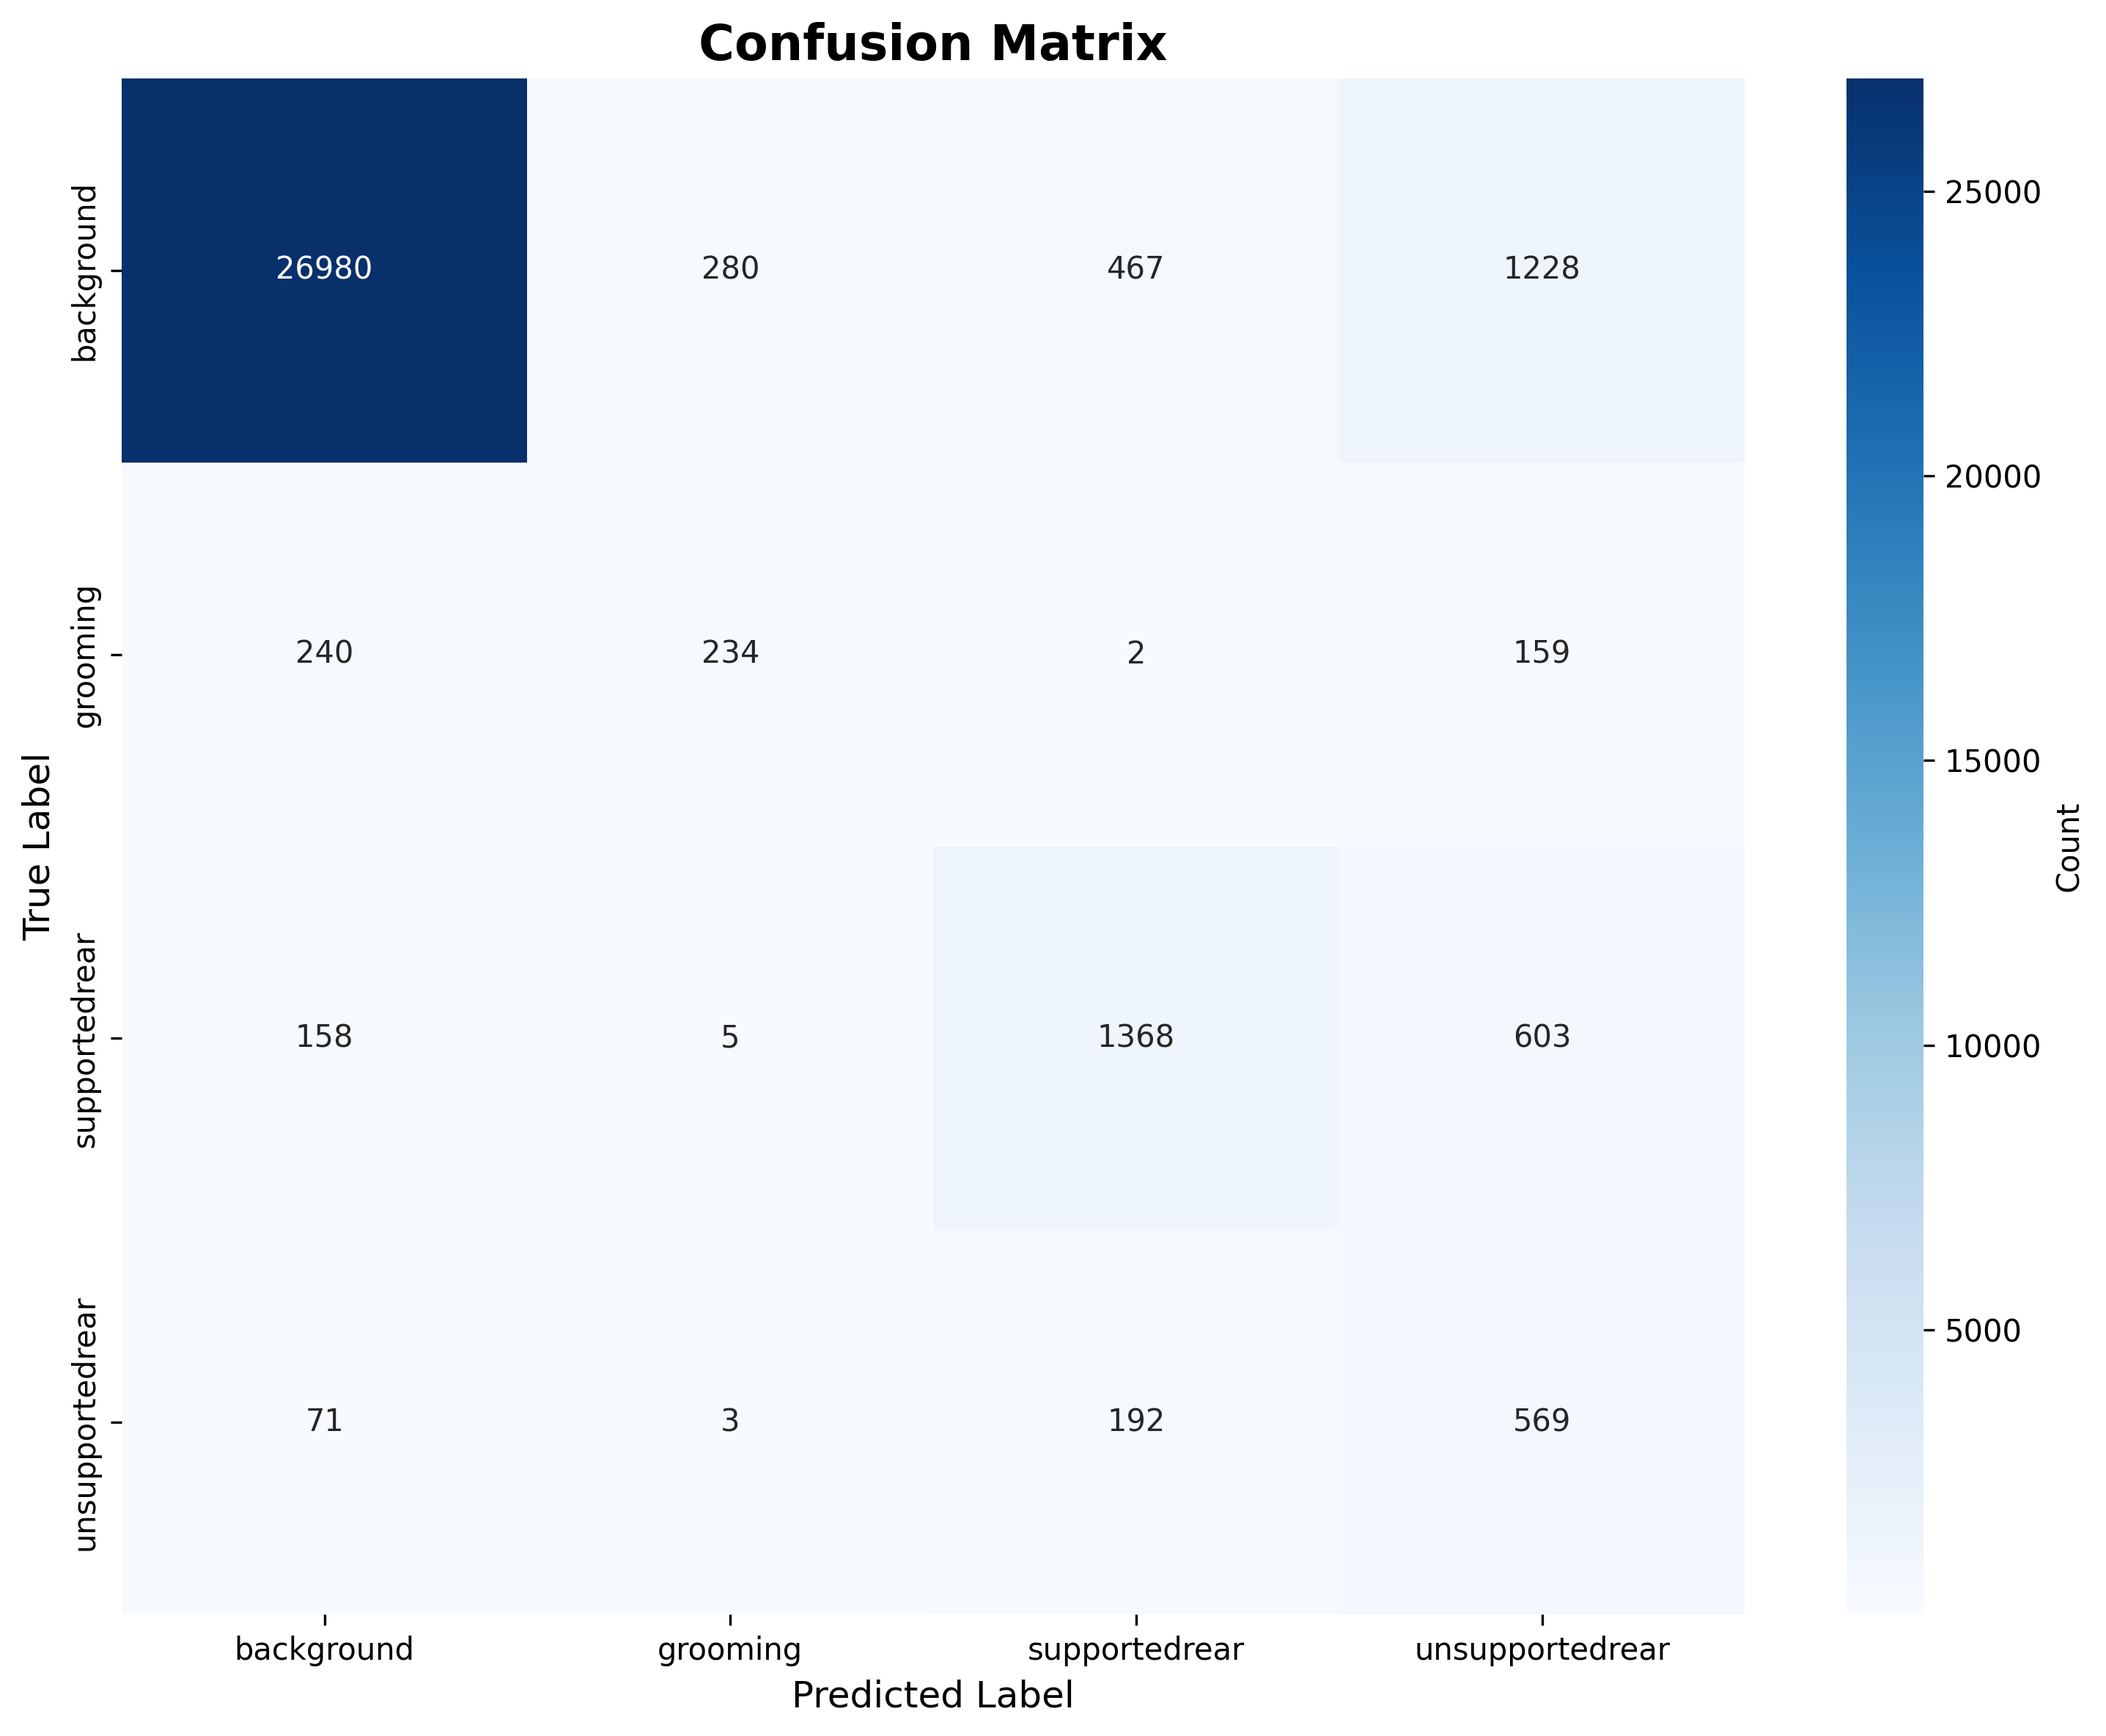
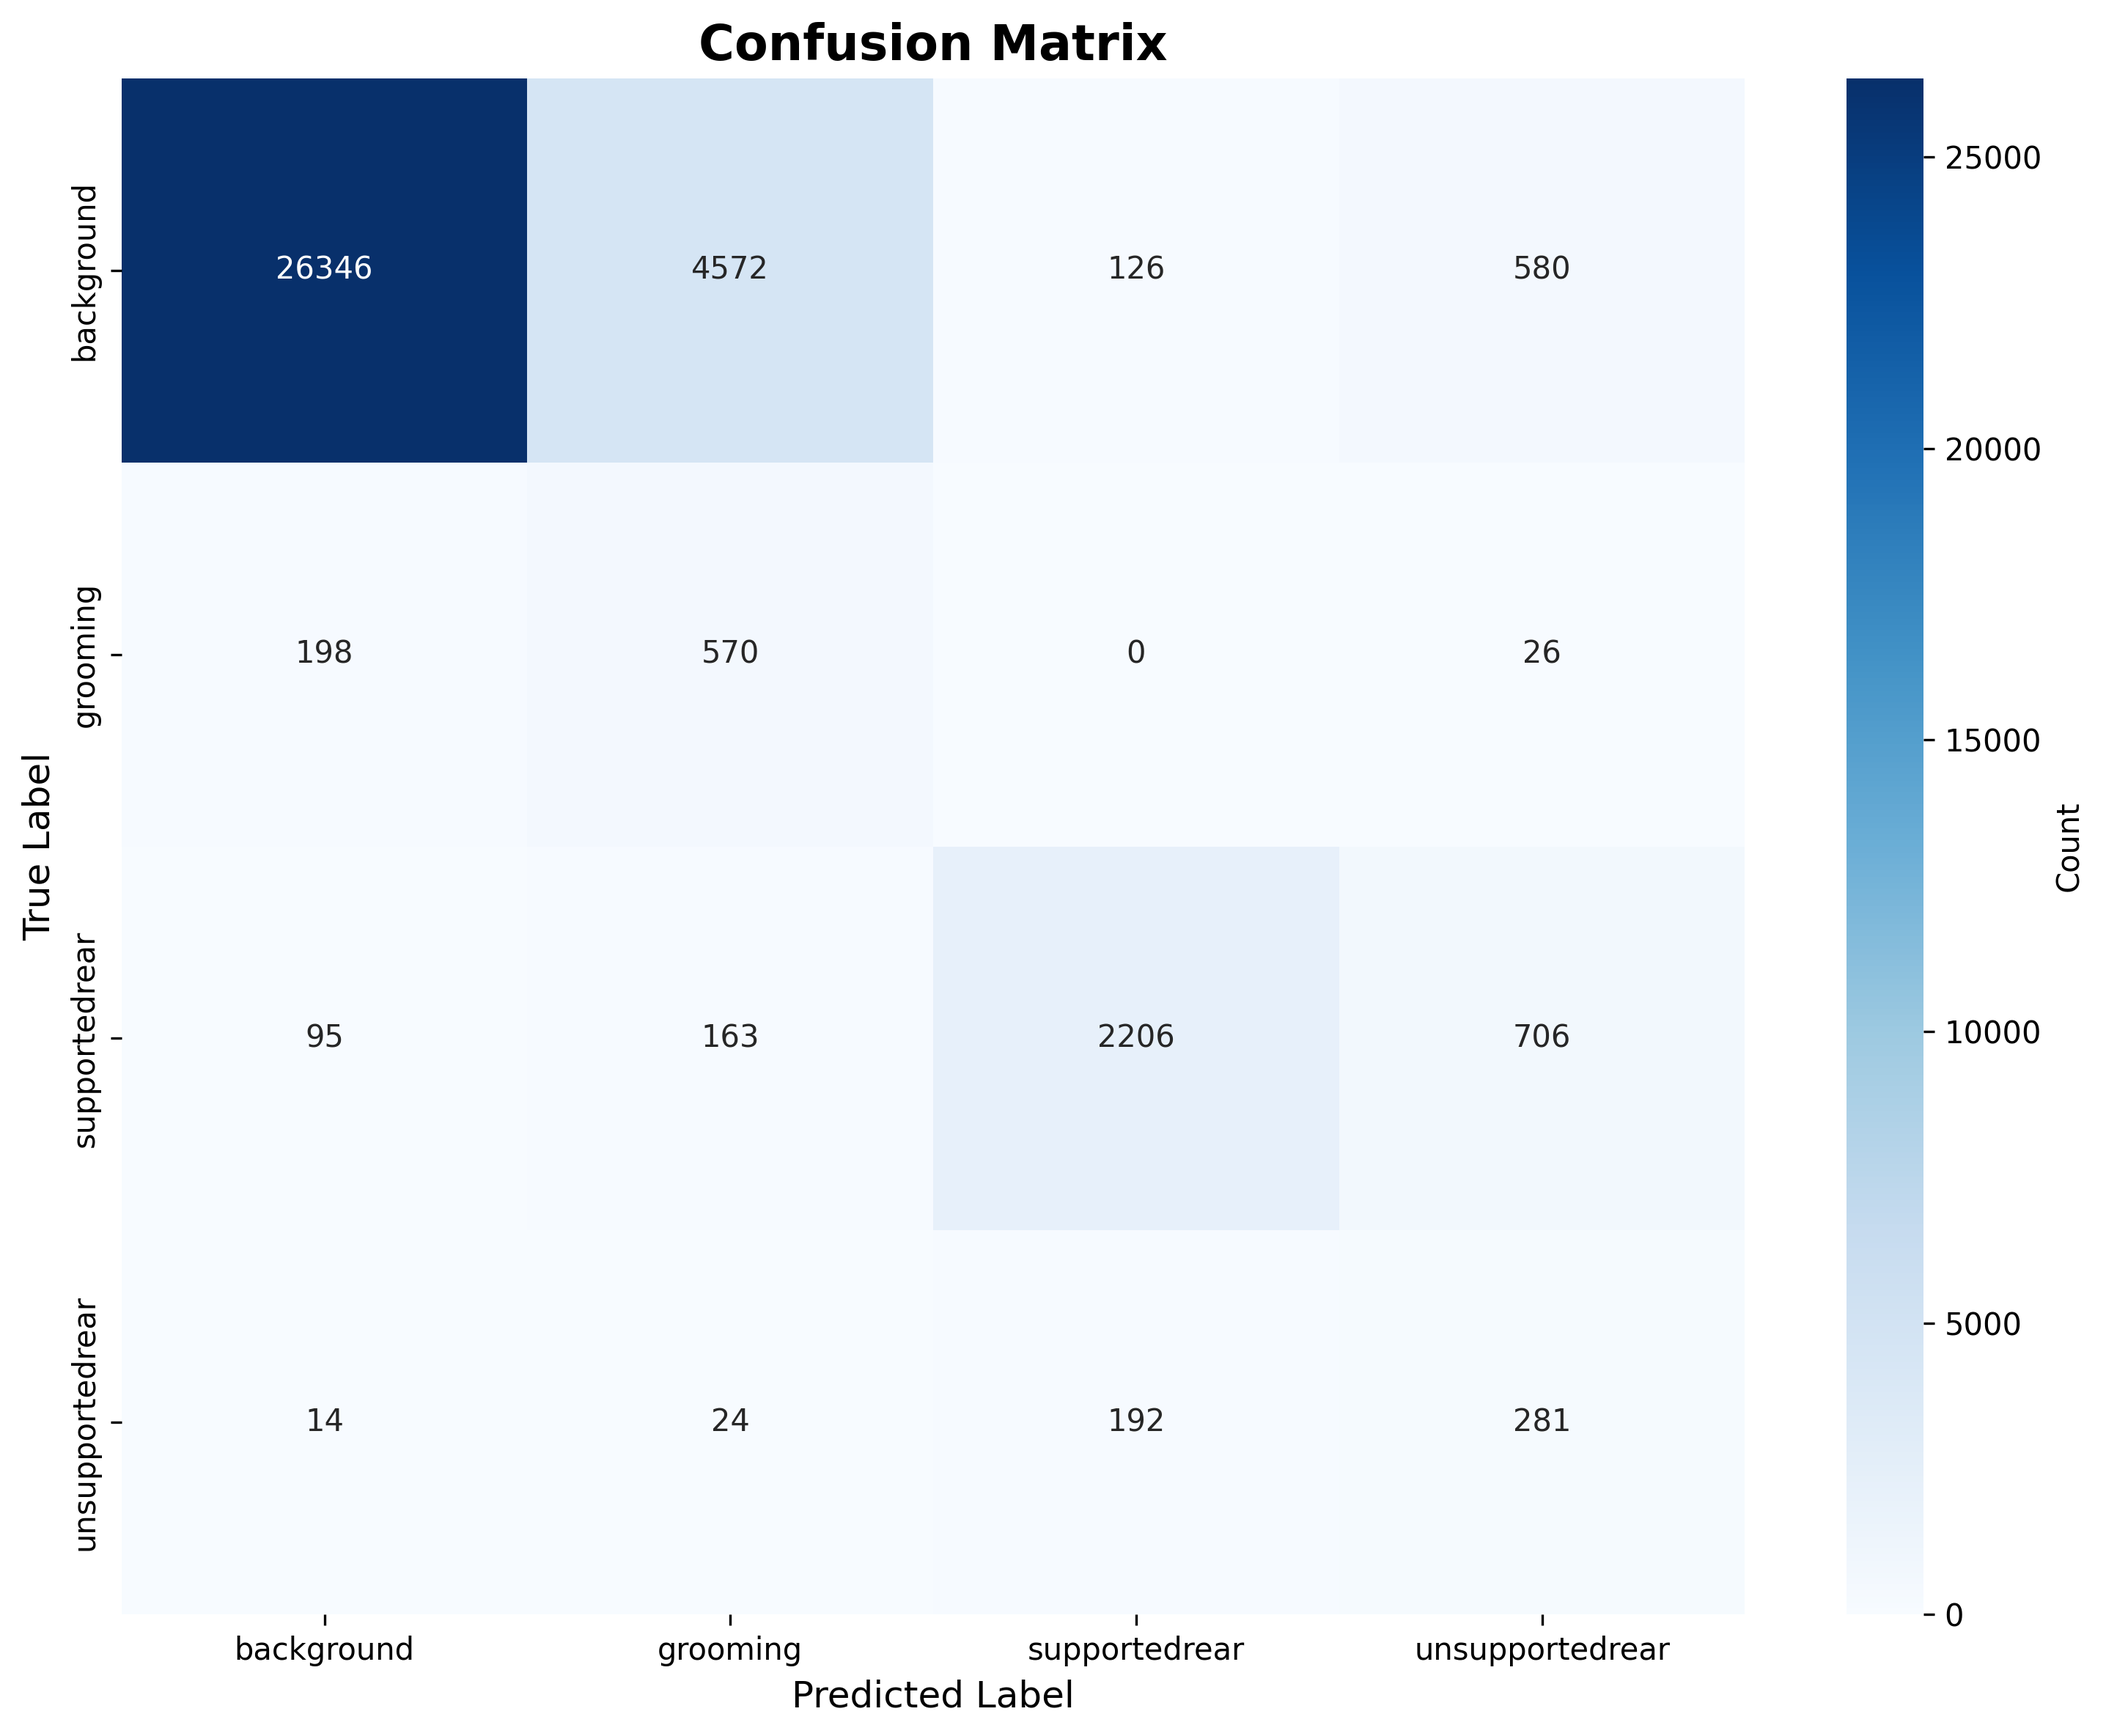
-

diff --git a/model/RandomForestClassifier.py b/model/RandomForestClassifier.py
@@ -14,23 +14,26 @@ from FeatureSelection import apply_uvfs, apply_pca
 import time
 from FeatureSelection import collinearity_then_uvfs
 from DataLoading import load_data
+from sklearn.feature_selection import VarianceThreshold
 
 start = time.time()
 
-# Best n_estimators: 150, Best F1 Score: 0.8932
 
 ########################################### Data loading ###############################################################
-"""
-# Apply UVFS
-X_train_sel, X_test_sel, selected_features, feature_scores_df = apply_uvfs(X_train, X_test, y_train, k_best=100)
-"""
+
 
 X_train, X_test, y_train, y_test = preprocess_data()
 
-# UVFS + Collinearity
-#X_train_sel, X_test_sel, y_train, y_test = collinearity_then_uvfs(X_train, X_test, y_train, y_test, collinearity_threshold = 0.95)
+# Remove low-variance features
+variance_selector = VarianceThreshold(threshold=0.001)
+X_train = variance_selector.fit_transform(X_train)
+X_test = variance_selector.transform(X_test)
 
-############################################# Basic Model ##############################################################
+print(f"After variance filtering: {X_train.shape[1]} features")
+
+
+
+############################################# Tuned Model ##############################################################
 
 rf = RandomForestClassifier(random_state=2, class_weight='balanced', n_jobs=-1, n_estimators=200,max_depth=10,min_samples_split=20,min_samples_leaf=8,max_features='log2')
 rf.fit(X_train, y_train)
@@ -67,7 +70,7 @@ print("Best parameters:", grid_search.best_params_)
 
 evaluate_model(best_rf, X_train, y_train, X_test, y_test)
 """
-############################################### New RF with selected features ##########################################
+############################################### Feature Importance ##########################################
 
 # Extract feature importances
 importances = rf.feature_importances_
@@ -78,10 +81,17 @@ feature_importance_df = pd.DataFrame({'Feature': feature_names, 'Importance': im
 feature_importance_df = feature_importance_df.sort_values(by='Importance', ascending=False)
 print(feature_importance_df)
 
-# Select top N features (example selecting top 50 features)
-top_features = feature_importance_df['Feature'][:50].values
+# Select top N features
+top_features = feature_importance_df['Feature'][:500].values
 X_train_selected = X_train[top_features]
 X_test_selected = X_test[top_features]
+
+################################################# New RF with selected features ########################################
+
+rf = RandomForestClassifier(random_state=2, class_weight='balanced', n_jobs=-1, n_estimators=200,max_depth=10,min_samples_split=20,min_samples_leaf=8,max_features='log2')
+rf.fit(X_train_selected, y_train)
+
+evaluate_model(rf, X_train_selected, y_train, X_test_selected, y_test)
 
 
 end = time.time()
